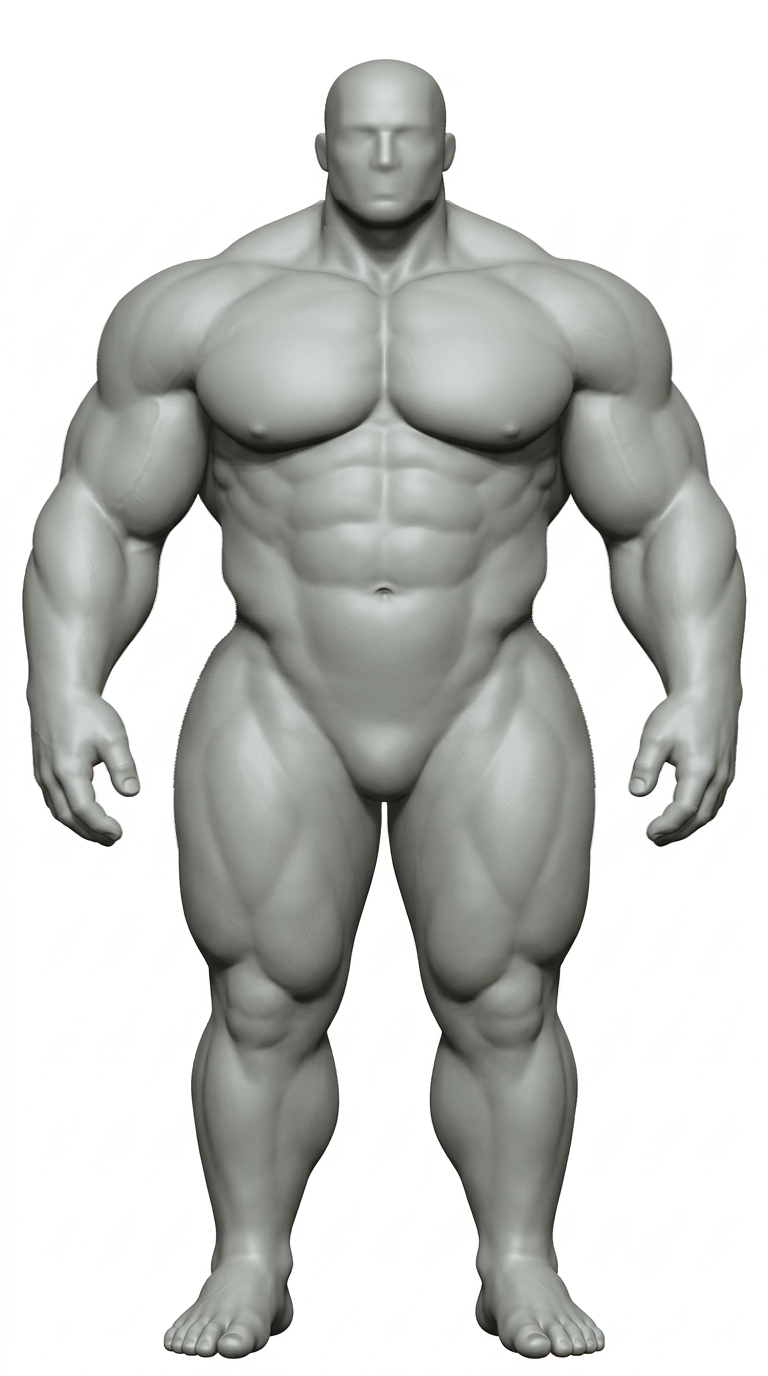
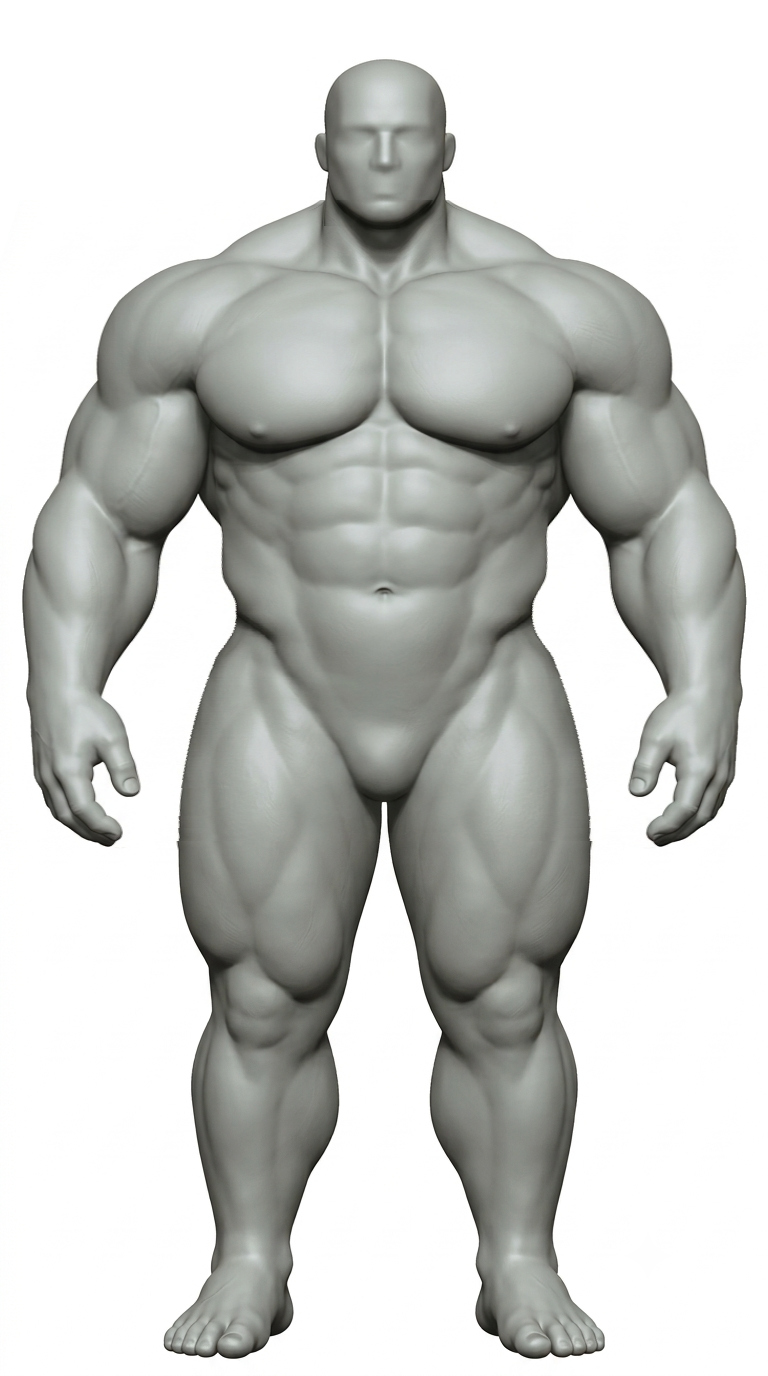
근육 그림 프롬프트: 엉덩이 좌우 경계 둥글고 뚜렷하게 · 앞 허벅지 원래 폭
Claude-Session: https://claude.ai/code/session_01BoBwgsWhq9LWGdXHzThg1i

diff --git a/문서/자료/근육그림/대표칸/비율둥글게.py b/문서/자료/근육그림/대표칸/비율둥글게.py
@@ -4,7 +4,7 @@ import 비율고치기 as warp
 from 비율고치기 import segs, C
 def halfw(f):
     m=ndimage.binary_fill_holes(np.asarray(Image.open(f).convert('L'))<240); d={}
-    for y in range(560,820):
+    for y in range(560,880):
         I=[s for s in segs(m[y]) if abs((s[0]+s[1])/2-C)<=210]
         if I: d[y]=((C-I[0][0])+(I[-1][1]-C))/2
     return d
@@ -22,3 +22,14 @@ for name in ['front','back']:
     print(name,yw,W0*2,yh,W1*2)
     warp.run(f'{name}.png',f'{name}_new.png',extra)
     json.dump(extra,open(f'extra_{name}.json','w'))
+
+# 앞모습만: 허리 가장 가는 곳 → 허벅지 원래 폭(840 높이)까지 둥근 곡선 하나 — 홍겸 님 10-10 "허벅지가 더 커 보이지 않게"
+ho=halfw('front.png'); warp.run('front.png','front_new.png'); hn=halfw('front_new.png')
+yw=min(range(590,640),key=lambda y:hn[y]); W0=hn[yw]; yh=840; W1=ho[yh]; ex={}
+for y in range(yw-40,yh+1):
+    if y<yw: t=(yw-y)/40; tgt=W0+(hn[y]-W0)*(1-np.cos(np.pi*t))/2
+    else:
+        t=(y-yw)/(yh-yw); u=min(t/0.2,1.0); g=u*u*(3-2*u); tgt=W0+(W1-W0)*g*(1-(1-t)**2)
+    ex[y]=float(tgt/hn[y])
+warp.run('front.png','front_new.png',ex)
+json.dump(ex,open('extra_front.json','w'))

diff --git a/문서/작업일지.md b/문서/작업일지.md
@@ -82,3 +82,4 @@
 - 10-10 홍겸 님: 파인 곳은 엉덩이 옆이 아니라 그 위 — 중둔근 자리(장골능 바로 아래 엉덩이 윗바깥) 채움(비율기준 그림 +9% 볼록 · 허리 = 어깨 51% 유지 · 골반 74%) · 프롬프트에 장골능 아래 둥글게
 - 10-10 홍겸 님: 엉덩이 옆(힙딥) 넓히기는 취소 — 중둔근 자리 채움만 남김(골반 = 어깨 73%)
 - 10-10 홍겸 님: 허리에서 엉덩이로 떨어지는 옆선 각짐 → 둥근 곡선(허리 = 어깨 51% · 골반 73% 그대로, 중둔근 자리 볼륨 유지) · 비율둥글게.py · 프롬프트에 "각진 곳 없이 둥근 곡선"
+- 10-10 홍겸 님: 뜻은 엉덩이 좌우 바깥 흐린 경계선을 둥글고 뚜렷하게(앱에서 잘 보이게) → 프롬프트 11 엉덩이에 "양쪽 C자 둥근 홈" · 앞모습 허벅지 위쪽은 원래 폭에 가깝게(허벅지 커 보이지 않게, 최대 +4%) · 뒷모습 엉덩이 그대로

diff --git a/문서/자료/근육그림/대표칸/프롬프트_v2.md b/문서/자료/근육그림/대표칸/프롬프트_v2.md
@@ -47,7 +47,7 @@ MUSCLE BLOCKS — this image is the base for a muscle-group map, so the body mus
 8. Trapezius: back of the neck, across the upper back and between the shoulder blades, narrowing to a point at mid-back — one kite shape.
 9. Lats: the wide back wings from the armpit down to the waist, including the round bump at the outer lower edge of the shoulder blade.
 10. Lower back: the two vertical columns beside the spine, between the lats and the glutes.
-11. Glutes: the whole buttock.
+11. Glutes: the whole buttock. Its outer left and right edges — where each buttock meets the side of the hip — are a clear, ROUND groove: a smooth, full C-shaped arc on each side, as distinct as the other borders, never a faint or blurry line.
 12. Quadriceps: the front and outer thigh.
 13. Hamstrings: the back of the thigh.
 14. Adductors: the inner thigh.

diff --git a/문서/자료/근육그림/대표칸/프롬프트_v2_한글.md b/문서/자료/근육그림/대표칸/프롬프트_v2_한글.md
@@ -42,7 +42,7 @@
 8. 승모: 목 뒤에서 등 위쪽과 날개뼈 사이를 지나 등 가운데에서 뾰족해지는 연 모양 하나.
 9. 광배: 겨드랑이에서 허리까지 넓은 등 날개, 날개뼈 바깥 아래의 둥근 혹(대원근)까지.
 10. 허리: 척추 양옆 세로 기둥 두 줄, 광배와 엉덩이 사이.
-11. 엉덩이: 엉덩이 전체.
+11. 엉덩이: 엉덩이 전체. 엉덩이의 왼쪽 · 오른쪽 바깥 테두리(엉덩이가 골반 옆과 만나는 곳)는 뚜렷하고 둥근 홈 — 양쪽 다 매끈하고 꽉 찬 C자 곡선, 다른 경계만큼 뚜렷하게, 흐리거나 번진 선 아님.
 12. 대퇴사두: 허벅지 앞과 바깥.
 13. 햄스트링: 허벅지 뒤.
 14. 내전근: 허벅지 안쪽.
